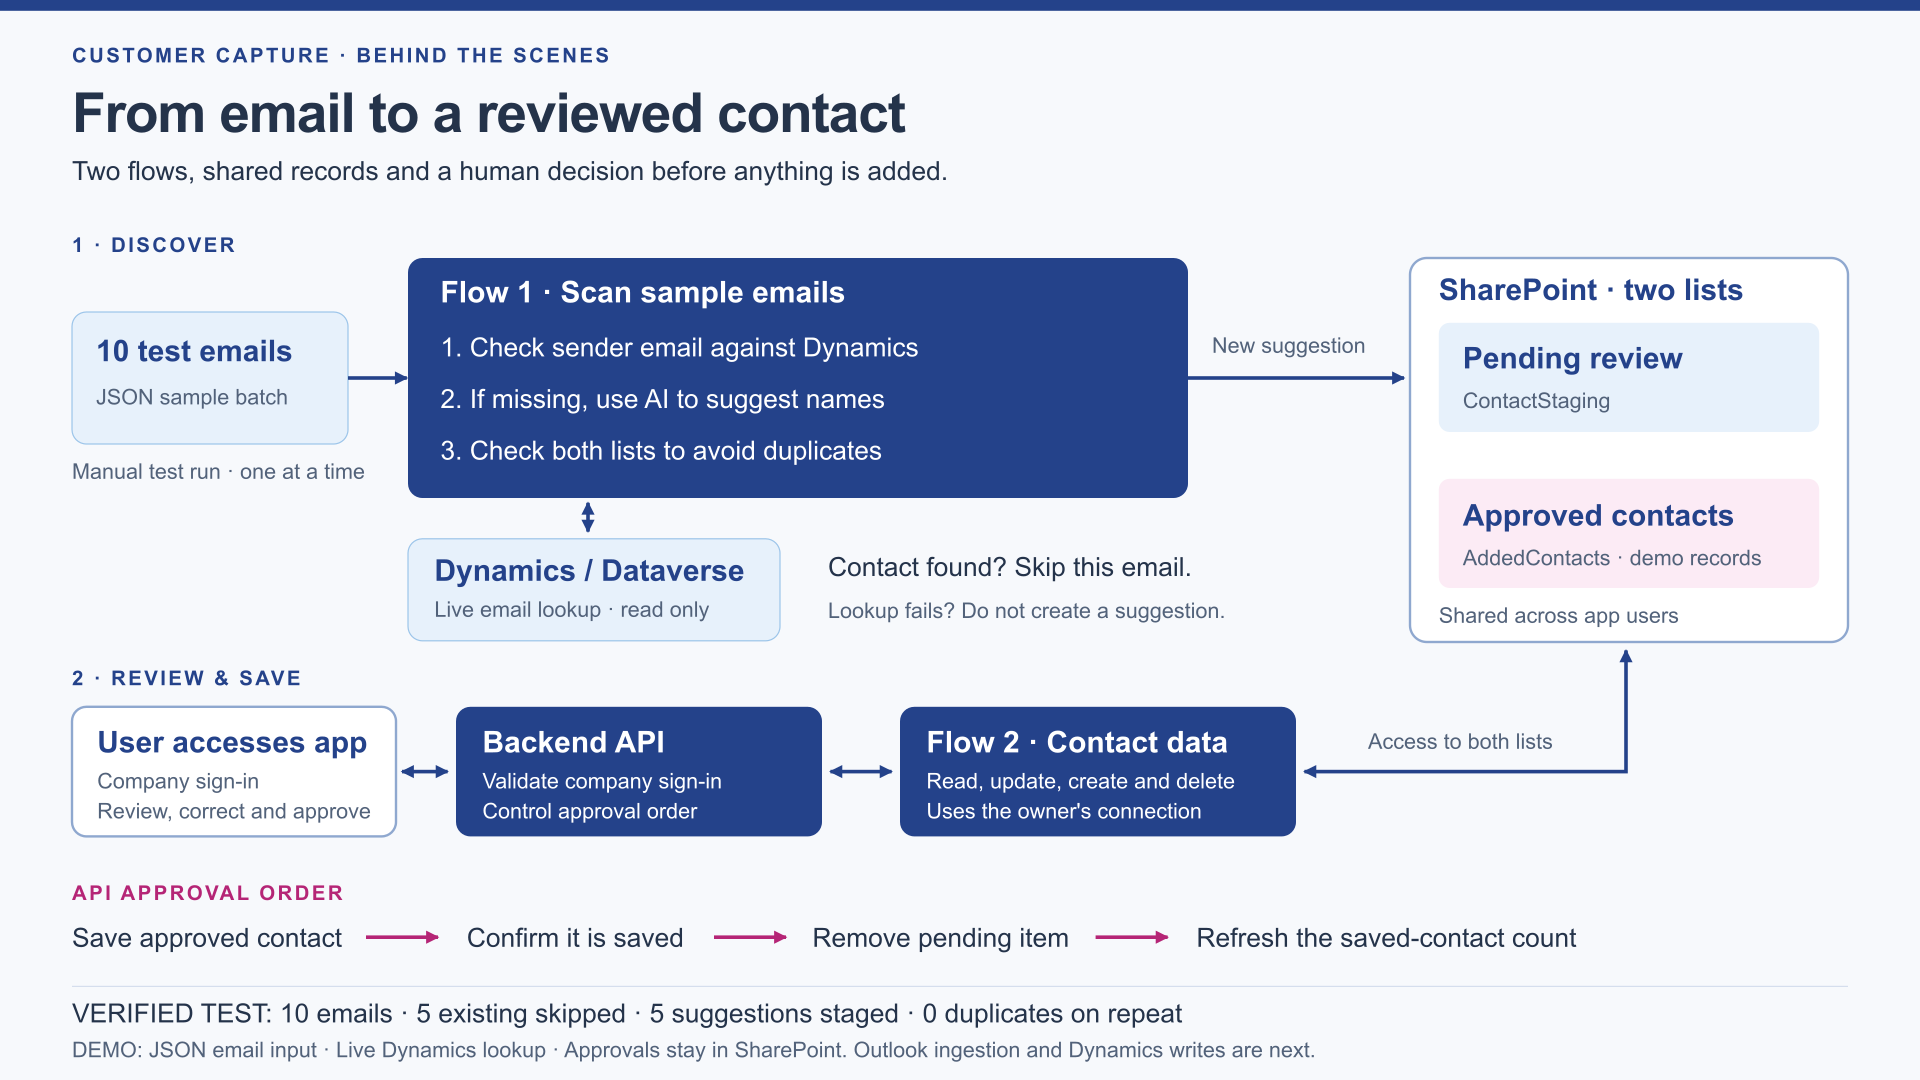
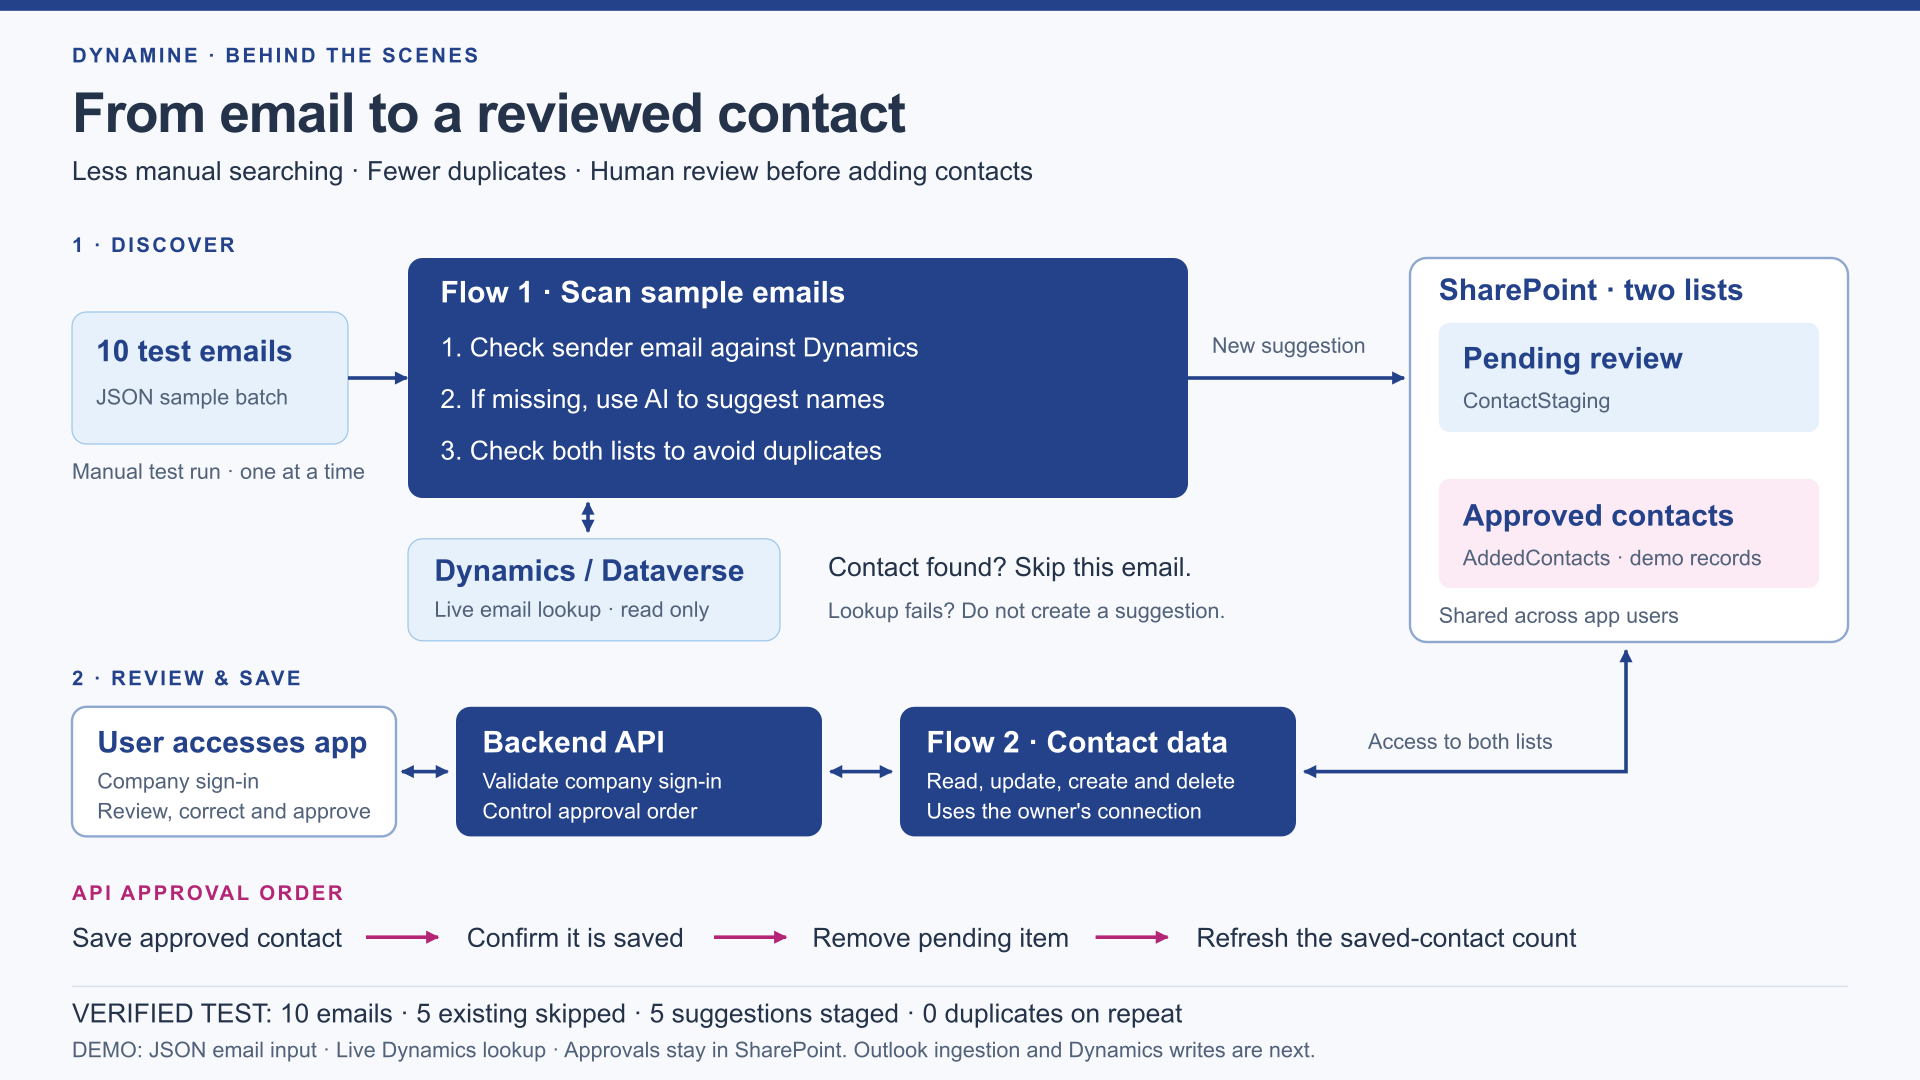
Rename demo to Dynamine and simplify recording to diagram only

Changed region(s): [[0.0312, 0.1528, 0.5312, 0.1833], [0.0312, 0.0306, 0.3125, 0.0611]]

diff --git a/demo/background-walkthrough.html b/demo/background-walkthrough.html
@@ -1,11 +1,11 @@
 <!doctype html>
-<html lang="en"><head><meta charset="utf-8"><meta name="viewport" content="width=device-width, initial-scale=1"><title>Customer Capture — Background walkthrough</title>
+<html lang="en"><head><meta charset="utf-8"><meta name="viewport" content="width=device-width, initial-scale=1"><title>Dynamine — Background walkthrough</title>
 <style>
 *{box-sizing:border-box}body{margin:0;background:#eaf0f8;color:#24334a;font:18px/1.55 system-ui,-apple-system,Arial,sans-serif}.toolbar{display:flex;align-items:center;gap:12px;flex-wrap:wrap;padding:12px 24px;background:white}.toolbar strong{margin-right:auto;color:#24428a}.toolbar button,.toolbar a{font:inherit;font-size:15px;padding:8px 14px;border:1px solid #9aaece;border-radius:6px;background:white;color:#24428a;cursor:pointer;text-decoration:none}.toolbar button:focus-visible,.toolbar a:focus-visible{outline:3px solid #cf368c;outline-offset:3px}#diagram{width:100%;background:#f7f9fc;display:grid;place-items:center}#diagram svg{display:block;width:100%;height:auto;max-height:calc(100vh - 76px)}#diagram:fullscreen{background:#f7f9fc}#diagram:fullscreen svg{max-height:100vh}#notes{max-width:1000px;margin:32px auto;padding:28px;background:white;border-radius:12px}h1,h2{color:#24428a;line-height:1.2}h1{font-size:28px}h2{font-size:22px}p{margin:16px 0}.cue{font-size:16px;color:#52627a;margin-bottom:4px}.handoff{border-left:4px solid #cf368c;padding-left:18px}.facts{color:#52627a} [hidden]{display:none!important}@media print{.toolbar{display:none}body{background:white}#diagram{break-after:page}#diagram svg{max-height:none}#notes{display:block!important;margin:0;padding:20px} @page{size:landscape;margin:8mm}}
 </style></head><body>
-<nav class="toolbar" aria-label="Presentation controls"><strong>Background walkthrough</strong><button id="full" type="button">Full screen diagram</button><button id="toggle" type="button" aria-expanded="false" aria-controls="notes">Show speaker notes</button><button id="export-svg" type="button">Download SVG</button></nav>
+<nav class="toolbar" aria-label="Presentation controls"><strong>Dynamine · Background diagram</strong><button id="full" type="button">Full screen diagram</button><button id="export-svg" type="button">Download SVG</button></nav>
 <main><section id="diagram" aria-label="System diagram"><svg xmlns="http://www.w3.org/2000/svg" width="1600" height="900" viewBox="0 0 1600 900" role="img" aria-labelledby="title desc">
-<title id="title">Customer Capture: how the background works</title>
+<title id="title">Dynamine: how the background works</title>
 <desc id="desc">Flow 1 processes sample JSON emails, checks live Dynamics contacts by email, suggests names with AI and checks both SharePoint lists before adding a missing contact to ContactStaging. The user accesses the app with company sign-in. The API controls approval and calls Flow 2 for list access. Approved contacts are saved to AddedContacts and verified before the pending item is deleted. Dynamics remains read-only.</desc>
 <defs>
  <marker id="arrow" viewBox="0 0 10 10" refX="9" refY="5" markerWidth="11" markerHeight="11" markerUnits="userSpaceOnUse" orient="auto-start-reverse"><path d="M 0 0 L 10 5 L 0 10 z" fill="#24428a"/></marker>
@@ -16,9 +16,9 @@
 </defs>
 <rect width="1600" height="900" fill="#f7f9fc"/>
 <rect width="1600" height="9" fill="#24428a"/>
-<text x="60" y="52" class="eyebrow">CUSTOMER CAPTURE · BEHIND THE SCENES</text>
+<text x="60" y="52" class="eyebrow">DYNAMINE · BEHIND THE SCENES</text>
 <text x="60" y="110" class="title">From email to a reviewed contact</text>
-<text x="60" y="150" class="body" fill="#52627a">Two flows, shared records and a human decision before anything is added.</text>
+<text x="60" y="150" class="body" fill="#52627a">Less manual searching · Fewer duplicates · Human review before adding contacts</text>
 
 <text x="60" y="210" class="eyebrow">1 · DISCOVER</text>
 <rect x="60" y="260" width="230" height="110" rx="12" fill="#e7f1fb" stroke="#9bc4e9"/>
@@ -82,31 +82,10 @@
 <text x="60" y="881" class="small">DEMO: JSON email input · Live Dynamics lookup · Approvals stay in SharePoint. Outlook ingestion and Dynamics writes are next.</text>
 </svg>
 
+
 </section>
-<section id="notes" hidden aria-labelledby="notes-title">
-<h1 id="notes-title">Your background explanation · 2½ minutes</h1>
-<p class="handoff"><strong>Handoff from your teammate:</strong> “You have seen the review and approval. Rutesh will explain how it works in the background.”</p>
-<h2>0:00–0:15 · Why this matters</h2>
-<p class="cue"><strong>Point to:</strong> Point to the title, then the two numbered sections.</p>
-<p>“You’ve seen the review experience. Behind it, our aim is to reduce manual contact checking while keeping a person in control. Two flows connect email discovery with a shared review and approval process.”</p>
-<h2>0:15–1:00 · Flow 1: discover missing contacts</h2>
-<p class="cue"><strong>Point to:</strong> Follow the top row from JSON to Flow 1, Dynamics, then Pending review.</p>
-<p>“Flow one starts with ten sample emails from our JSON file and processes them one at a time. It checks each sender’s email against the live Dynamics contact table. If that email already exists, we skip it and continue to the next message. For a missing contact, AI suggests the person’s name, and we check both our pending and approved lists for duplicates. Only a new suggestion enters ContactStaging, our pending review list. The reviewer can correct uncertain details. The value is less manual searching, fewer repeated entries, and a clear queue of contacts that need attention.”</p>
-<h2>1:00–1:50 · API and Flow 2: review and save</h2>
-<p class="cue"><strong>Point to:</strong> Follow the lower row: user → API → Flow 2 → lists. Then point to the pink approval sequence.</p>
-<p>“The user accesses the app with their company account. The backend API checks that sign-in and controls the approval steps. It calls flow two, Contact data, which reads and writes the SharePoint lists using the owner’s existing connection. Users do not need separate SharePoint access. When someone approves a contact, the API first saves the corrected details in AddedContacts, then checks that the record was saved successfully. Only after that does it remove the pending entry and refresh the count. If saving fails, the pending record remains for retry. This gives the team shared records and reduces the risk of losing a suggestion during approval.”</p>
-<h2>1:50–2:15 · What the test proves</h2>
-<p class="cue"><strong>Point to:</strong> Point to the test-result strip beneath the diagram.</p>
-<p>“In our ten-email test, five contacts already existed in Dynamics and were skipped. The other five became review suggestions. Running the same batch again created no duplicates. Those results demonstrate the basic value: focus the reviewer on missing contacts, keep AI suggestions subject to human review, and avoid adding the same person repeatedly.”</p>
-<h2>2:15–2:30 · Be clear about the demo boundary</h2>
-<p class="cue"><strong>Point to:</strong> Point to the bottom demo-scope note.</p>
-<p>“For this demo, the emails are simulated, the Dynamics lookup is live, and approved contacts stay in SharePoint. Connecting Outlook and importing approved contacts into Dynamics are the next steps.”</p>
-<p class="facts"><strong>Pace:</strong> 318 spoken words, about 2½ minutes at a calm presentation pace. Rehearse once and leave a short pause between the two flows.</p>
-<p class="facts"><strong>Before recording:</strong> Use the live connected app for shared-list approval. The local sample-data version uses browser storage; describe it as simulated if used. The five-and-five figures are test results, not the current queue size.</p>
-</section></main>
+</main>
 <script>
-const notes=document.getElementById('notes'),toggle=document.getElementById('toggle');
-toggle.addEventListener('click',()=>{notes.hidden=!notes.hidden;toggle.setAttribute('aria-expanded',String(!notes.hidden));toggle.textContent=notes.hidden?'Show speaker notes':'Hide speaker notes';if(!notes.hidden)notes.scrollIntoView({behavior:'smooth',block:'start'});});
 document.getElementById('export-svg').addEventListener('click',()=>{const source=new XMLSerializer().serializeToString(document.querySelector('#diagram svg'));const url=URL.createObjectURL(new Blob([source],{type:'image/svg+xml'}));const a=document.createElement('a');a.href=url;a.download='background-overview.svg';a.click();setTimeout(()=>URL.revokeObjectURL(url),1000);});
 document.getElementById('full').addEventListener('click',async()=>{try{await document.getElementById('diagram').requestFullscreen();}catch{document.getElementById('diagram').scrollIntoView({block:'start'});}});
 </script></body></html>

diff --git a/frontend/index.html b/frontend/index.html
@@ -2,13 +2,13 @@
 <html lang="en">
 <head>
   <meta charset="utf-8"><meta name="viewport" content="width=device-width, initial-scale=1">
-  <title>Customer Capture</title>
+  <title>Dynamine</title>
   <link rel="stylesheet" href="styles.css">
   <script type="module" src="app.js"></script>
 </head>
 <body>
   <section id="welcome" class="welcome">
-    <div class="welcome-copy"><p class="eyebrow">CUSTOMER CAPTURE</p>
+    <div class="welcome-copy"><p class="eyebrow">DYNAMINE</p>
       <h1>Better contacts.<br>One review at a time.</h1>
       <p>Turn inbox conversations into contact suggestions you can check, correct and approve.</p>
       <div class="notice"><strong>Hackathon preview</strong><p>Explore the review journey with fictional contacts. Sample changes stay in this browser.</p></div>
@@ -18,7 +18,7 @@
     <div class="welcome-art" aria-hidden="true"><div class="orbit"></div><div class="preview-card"><span class="tag">READY FOR REVIEW</span><h2>Alex Morgan</h2><p>Willow Court · Leaseholder</p><div class="preview-line"></div><div class="preview-line short"></div><span class="preview-check">✓ Reviewed by you</span></div><div class="art-caption">Your inbox finds the details.<br>You make the decision.</div></div>
   </section>
   <div id="workspace" class="workspace" hidden>
-    <aside class="sidebar"><a class="brand" href="#/review"><span>Customer<br>Capture</span></a><p class="eyebrow">WORKSPACE</p>
+    <aside class="sidebar"><a class="brand" href="#/review"><span>Dynamine</span></a><p class="eyebrow">WORKSPACE</p>
       <nav aria-label="Main"><a href="#/review" id="review-nav">Pending review <span id="nav-count">0</span></a><a href="#/added" id="added-nav">Added contacts</a></nav>
       <div class="sidebar-bottom"><span class="avatar">DR</span><div><strong>Demo reviewer</strong><small>Sample-data session</small></div></div>
       <button id="leave" class="text-button">Leave demo</button>

diff --git a/setup/configure-flow-bridge.py b/setup/configure-flow-bridge.py
@@ -13,7 +13,7 @@ ENV='ae00c6cc-145f-41ea-bf30-1f0979a559c6'
 CRM='https://rendallandrittner-predev.crm11.dynamics.com'
 FLOW='https://api.flow.microsoft.com'
 FLOW_ROOT=f'/providers/Microsoft.ProcessSimple/environments/{ENV}/flows'
-NAME='Customer Capture - Contact data'
+NAME='Dynamine - Contact data'
 META=ROOT/'setup/flows/contact-data-bridge.json'
 
 def call(base,token,path,method='GET',body=None,headers=None):
@@ -42,7 +42,7 @@ def main():
             wid=rows[0]['workflowid']
             call(CRM,crm,f'/api/data/v9.2/workflows({wid})','PATCH',{'clientdata':json.dumps(clientdata)})
         else:
-            row=call(CRM,crm,'/api/data/v9.2/workflows','POST',{'category':5,'name':NAME,'type':1,'primaryentity':'none','description':'Demo backend data bridge using the existing connection, restricted to the two Customer Capture Demo lists.','clientdata':json.dumps(clientdata)}, {'Prefer':'return=representation'})
+            row=call(CRM,crm,'/api/data/v9.2/workflows','POST',{'category':5,'name':NAME,'type':1,'primaryentity':'none','description':'Demo backend data bridge using the existing connection, restricted to the two demo lists.','clientdata':json.dumps(clientdata)}, {'Prefer':'return=representation'})
             wid=row['workflowid']
         solution=call(CRM,crm,'/api/data/v9.2/solutions(b13fb656-0cbc-f111-aaae-000d3a8730d1)?$select=uniquename')
         call(CRM,crm,'/api/data/v9.2/AddSolutionComponent','POST',{'ComponentId':wid,'ComponentType':29,'SolutionUniqueName':solution['uniquename'],'AddRequiredComponents':False})

diff --git a/setup/configure-backend.py b/setup/configure-backend.py
@@ -55,7 +55,7 @@ def main():
     scope = next((item for item in scopes if item['value'] == 'access_as_user'), None)
     if not scope:
         scope = {'id': str(uuid.uuid4()), 'value': 'access_as_user', 'type': 'Admin', 'isEnabled': True,
-                 'adminConsentDisplayName': 'Access Customer Capture',
+                 'adminConsentDisplayName': 'Access Dynamine',
                  'adminConsentDescription': 'Review and approve demo contact suggestions.'}
         scopes.append(scope)
     api['oauth2PermissionScopes'] = scopes

diff --git a/setup/configure-test-email-batch.py b/setup/configure-test-email-batch.py
@@ -92,7 +92,7 @@ def main():
     token = bridge.backend.token(bridge.CRM)
     path = f'/api/data/v9.2/workflows({WORKFLOW_ID})'
     row = bridge.call(bridge.CRM, token, path + '?$select=name,clientdata')
-    if row['name'] != 'Customer Capture - Scan sample emails':
+    if row['name'] != 'Dynamine - Scan sample emails':
         raise ValueError('Unexpected scanner identity.')
     client = json.loads(row['clientdata'])
     client['properties']['definition'] = transform(client['properties']['definition'], samples)

diff --git a/setup/first-run.md b/setup/first-run.md
@@ -1,6 +1,6 @@
 # Present or test the demo
 
-1. [Open Customer Capture](https://kind-ground-0ee249903.5.azurestaticapps.net/).
+1. [Open Dynamine](https://kind-ground-0ee249903.5.azurestaticapps.net/).
 2. Use **Continue with work account** if you are not signed in automatically.
 3. Open **Pending review**, then **Review**.
 4. Check the email and names. Add or correct property and relationship descriptions if known.
@@ -13,7 +13,7 @@ The prepared demo includes sample contacts awaiting review. Email content is sim
 
 ## Add a new suggestion
 
-The flow owner runs **Customer Capture - Scan sample emails**, then you choose **Refresh records**. The flow processes the 10 entries in [test-emails.json](test-emails.json). Existing contacts are skipped; missing contacts become review suggestions. Re-running the batch should not create duplicates. No email is sent.
+The flow owner runs **Dynamine - Scan sample emails**, then you choose **Refresh records**. The flow processes the 10 entries in [test-emails.json](test-emails.json). Existing contacts are skipped; missing contacts become review suggestions. Re-running the batch should not create duplicates. No email is sent.
 
 ## Explain this during the presentation
 

diff --git a/setup/entra-access.md b/setup/entra-access.md
@@ -4,7 +4,7 @@ Users sign in with their company account. All signed-in users in the configured 
 
 The app reuses an existing Microsoft session where possible. Microsoft may still ask the user to choose an account, sign in, or approve verification. Signing out stops automatic sign-in in that tab.
 
-The app's private backend uses **Customer Capture - Contact data**, which runs through the flow owner's existing connection. The demo no longer depends on the outstanding Graph application-permission consent from the earlier approach.
+The app's private backend uses **Dynamine - Contact data**, which runs through the flow owner's existing connection. The demo no longer depends on the outstanding Graph application-permission consent from the earlier approach.
 
 No further Graph administrator-consent step is required for this connection. Existing company sign-in rules, flow licensing and environment policies still apply. The owner's connection must remain valid.
 

diff --git a/README.md b/README.md
@@ -1,4 +1,4 @@
-# Customer Capture
+# Dynamine
 
 Find missing contacts from email, review their details, and approve them into a shared demo contact list.
 
@@ -21,7 +21,7 @@ The flow owner runs the sample scan; app users choose **Refresh records**. Real 
 
 ## Team recording
 
-[Open the background diagram and timed speaker notes](demo/background-walkthrough.html) after downloading the file, or use the [diagram image](demo/background-overview.png) and [2½-minute script](demo/presenter-notes.txt). The page is self-contained and opens locally in a browser.
+[Open the recording diagram](demo/background-walkthrough.html) after downloading the file, or use the [diagram image](demo/background-overview.png). The page is self-contained and opens locally in a browser.
 
 ## Team guides
 

diff --git a/power-automate-workstream.md b/power-automate-workstream.md
@@ -6,8 +6,8 @@ Two flows are used in the demo:
 
 | Flow | What it does |
 |---|---|
-| Customer Capture - Scan sample emails | Checks the 10 test emails against Dynamics and creates suggestions for missing senders |
-| Customer Capture - Contact data | Lets the app read and save shared records through the existing owner's connection |
+| Dynamine - Scan sample emails | Checks the 10 test emails against Dynamics and creates suggestions for missing senders |
+| Dynamine - Contact data | Lets the app read and save shared records through the existing owner's connection |
 
 ## Scan behaviour
 

diff --git a/setup/flow-build-status.md b/setup/flow-build-status.md
@@ -13,7 +13,7 @@
 - Unsigned requests to read or approve records are rejected.
 - **34 app checks and 3 batch-loader checks pass**, covering sign-in, validation, duplicate protection, outdated edits, failed saves and cleanup retries.
 
-The new **Customer Capture - Contact data** flow is active. This route does not depend on the previously outstanding Graph application consent.
+The new **Dynamine - Contact data** flow is active. This route does not depend on the previously outstanding Graph application consent.
 
 ## JSON batch test
 

diff --git a/setup/azure-static-web-app.md b/setup/azure-static-web-app.md
@@ -1,6 +1,6 @@
 # Hosting and updates
 
-[Customer Capture is hosted here](https://kind-ground-0ee249903.5.azurestaticapps.net/).
+[Dynamine is hosted here](https://kind-ground-0ee249903.5.azurestaticapps.net/).
 
 The existing Azure Static Web App hosts the page and its private API on the Free plan. No local Python server is needed for the shared demo. Existing Power Automate and AI Builder entitlements are separate from website hosting.
 

diff --git a/sharepoint-workstream.md b/sharepoint-workstream.md
@@ -2,7 +2,7 @@
 
 Owner: list owner / Rutesh.
 
-The two lists are ready on [Customer Capture Demo](https://randrltd.sharepoint.com/sites/CustomerCaptureDemo/). Do not recreate them.
+The two lists are ready on [demo site](https://randrltd.sharepoint.com/sites/CustomerCaptureDemo/). Do not recreate them.
 
 | List | Purpose |
 |---|---|
